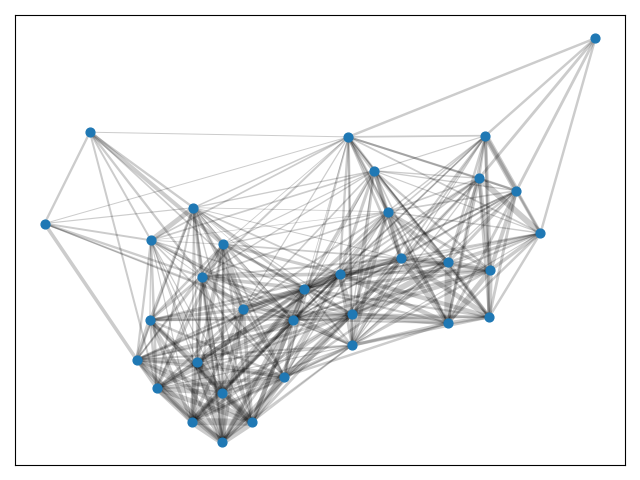
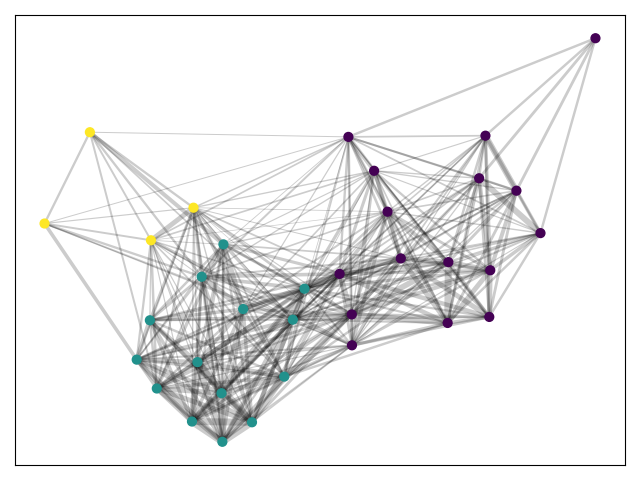
readme

diff --git a/README.md b/README.md
@@ -83,7 +83,7 @@ plt.show()
 ```
 
 
-![Best Partition with threshold-clustering](https://raw.githubusercontent.com/IngoMarquart/python-threshold-clustering/main/nw2.png)
+![Best Partition with threshold-clustering](https://raw.githubusercontent.com/IngoMarquart/python-threshold-clustering/main/nw3.png)
 
 
 We can see that more communities of similarity can be identified. Note in particular outliers drawn in yellow.
